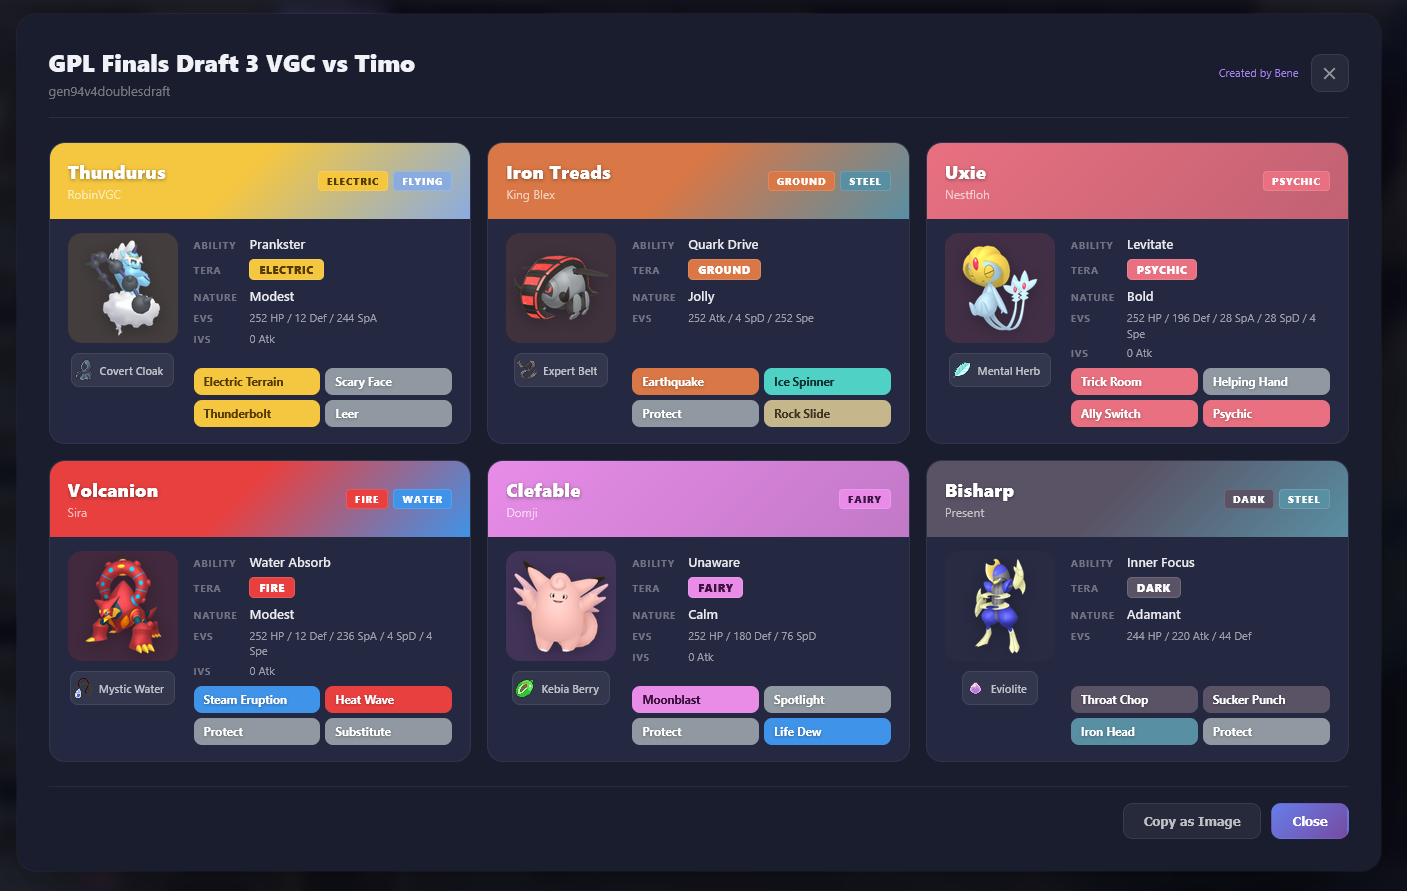
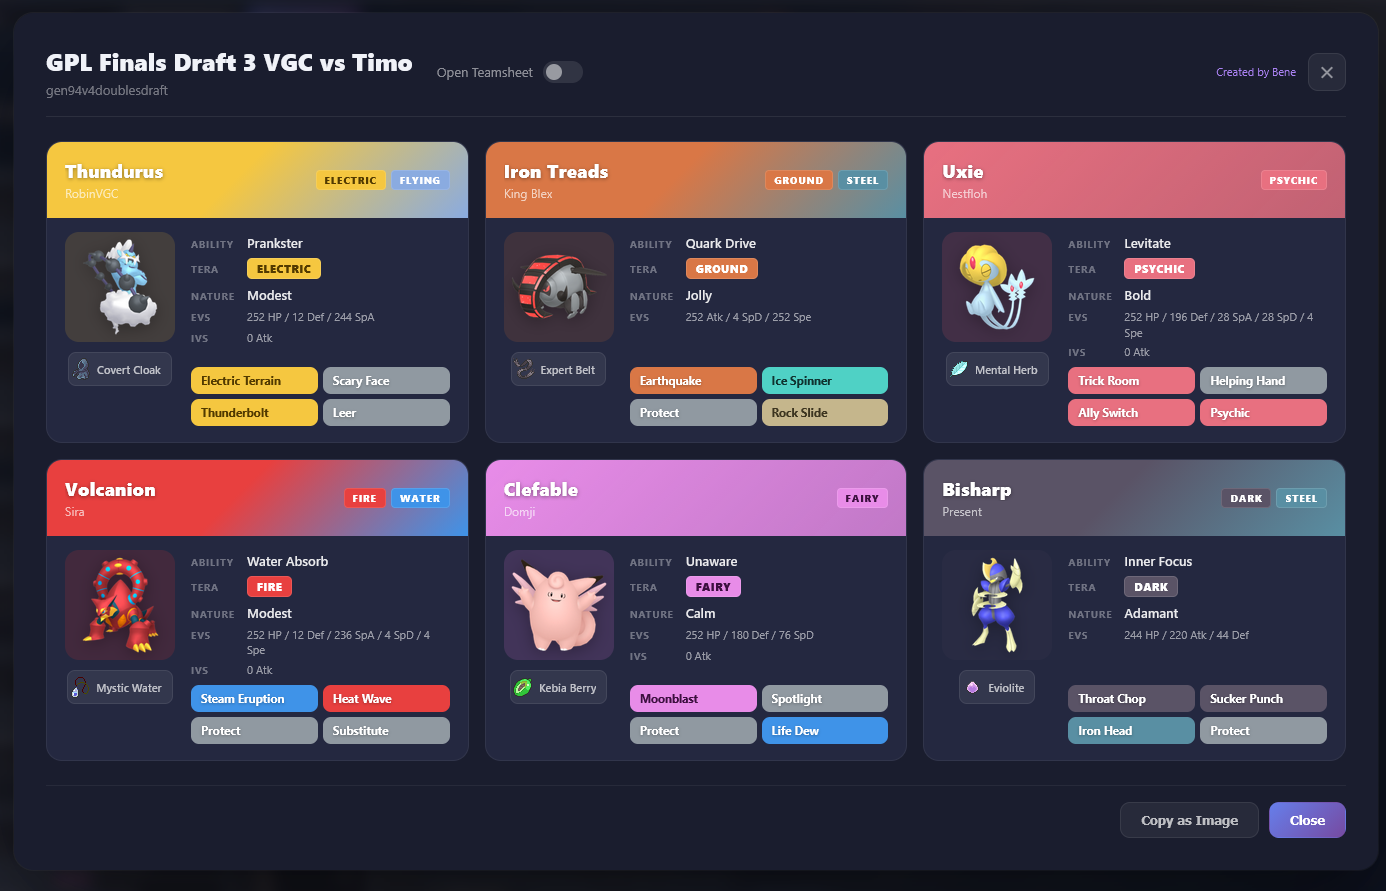
Add Open Teamsheet Option

diff --git a/teambuilder-beautify.user.js b/teambuilder-beautify.user.js
@@ -1,7 +1,7 @@
 // ==UserScript==
 // @name         Pokémon Showdown Teambuilder Beautify
 // @namespace    https://github.com/teambuilder-beautify
-// @version      1.0.1
+// @version      1.0.2
 // @description  Adds a beautiful teamsheet overlay to the Pokémon Showdown teambuilder
 // @author       Teambuilder Beautify
 // @match        https://play.pokemonshowdown.com/*
@@ -305,6 +305,47 @@
       transition: all 0.2s;
     }
     .tb-beautify-close:hover { background: rgba(255,255,255,0.12); color: #fff; }
+
+    /* Open Teamsheet Toggle */
+    .tb-open-teamsheet-toggle {
+      display: flex; align-items: center; gap: 10px;
+      margin-left: 24px; margin-right: auto;
+      user-select: none;
+    }
+    .tb-open-teamsheet-toggle label {
+      color: rgba(255,255,255,0.5); font-size: 13px; font-weight: 500;
+      cursor: pointer; white-space: nowrap;
+    }
+    .tb-toggle-switch {
+      position: relative; width: 40px; height: 22px; flex-shrink: 0;
+    }
+    .tb-toggle-switch input { opacity: 0; width: 0; height: 0; position: absolute; pointer-events: none; }
+    .tb-toggle-slider {
+      position: absolute; top: 0; left: 0; right: 0; bottom: 0;
+      background: rgba(255,255,255,0.1); border-radius: 11px;
+      cursor: pointer; transition: background 0.25s;
+      z-index: 1;
+    }
+    .tb-toggle-slider::before {
+      content: ''; position: absolute; left: 3px; top: 3px;
+      width: 16px; height: 16px; border-radius: 50%;
+      background: rgba(255,255,255,0.5); transition: transform 0.25s, background 0.25s;
+    }
+    .tb-toggle-switch input:checked + .tb-toggle-slider {
+      background: rgba(124,77,255,0.5);
+    }
+    .tb-toggle-switch input:checked + .tb-toggle-slider::before {
+      transform: translateX(18px); background: #7c4dff;
+    }
+
+    /* Open Teamsheet mode: hide nature/evs/ivs */
+    .tb-beautify-modal.tb-open-teamsheet .tb-card-nature,
+    .tb-beautify-modal.tb-open-teamsheet .tb-card-evs-row,
+    .tb-beautify-modal.tb-open-teamsheet .tb-card-ivs-row,
+    .tb-beautify-modal.tb-open-teamsheet .tb-detail-nature,
+    .tb-beautify-modal.tb-open-teamsheet .tb-detail-evs-row,
+    .tb-beautify-modal.tb-open-teamsheet .tb-detail-ivs-row { display: none !important; }
+    .tb-beautify-modal.tb-open-teamsheet .tb-detail-stats { display: none !important; }
 
     /* Grid */
     .tb-beautify-grid {
@@ -666,10 +707,10 @@
               '<span class="tb-card-label">Ability</span>' +
               '<span class="tb-card-value">' + escapeHTML(abilityName) + '</span>' +
               (teraType ? '<span class="tb-card-label">Tera</span><span class="tb-card-value">' + teraBadgeHTML + '</span>' : '') +
-              '<span class="tb-card-label">Nature</span>' +
-              '<span class="tb-card-value">' + escapeHTML(natureName) + '</span>' +
-              (evStr ? '<span class="tb-card-label">EVs</span><span class="tb-card-evs">' + escapeHTML(evStr) + '</span>' : '') +
-              (ivStr ? '<span class="tb-card-label">IVs</span><span class="tb-card-evs">' + escapeHTML(ivStr) + '</span>' : '') +
+              '<span class="tb-card-label tb-card-nature">Nature</span>' +
+              '<span class="tb-card-value tb-card-nature">' + escapeHTML(natureName) + '</span>' +
+              (evStr ? '<span class="tb-card-label tb-card-evs-row">EVs</span><span class="tb-card-evs tb-card-evs-row">' + escapeHTML(evStr) + '</span>' : '') +
+              (ivStr ? '<span class="tb-card-label tb-card-ivs-row">IVs</span><span class="tb-card-evs tb-card-ivs-row">' + escapeHTML(ivStr) + '</span>' : '') +
             '</div>' +
             '<div class="tb-card-moves">' + movesHTML + '</div>' +
           '</div>' +
@@ -857,10 +898,10 @@
                 '<span class="tb-detail-label">Ability</span>' +
                 '<span class="tb-detail-value">' + escapeHTML(abilityName) + '</span>' +
                 (teraType ? '<span class="tb-detail-label">Tera</span><span class="tb-detail-value">' + teraHTML + '</span>' : '') +
-                '<span class="tb-detail-label">Nature</span>' +
-                '<span class="tb-detail-value">' + escapeHTML(natureName) + '</span>' +
-                (evStr ? '<span class="tb-detail-label">EVs</span><span class="tb-detail-value-sm">' + escapeHTML(evStr) + '</span>' : '') +
-                (ivStr ? '<span class="tb-detail-label">IVs</span><span class="tb-detail-value-sm">' + escapeHTML(ivStr) + '</span>' : '') +
+                '<span class="tb-detail-label tb-detail-nature">Nature</span>' +
+                '<span class="tb-detail-value tb-detail-nature">' + escapeHTML(natureName) + '</span>' +
+                (evStr ? '<span class="tb-detail-label tb-detail-evs-row">EVs</span><span class="tb-detail-value-sm tb-detail-evs-row">' + escapeHTML(evStr) + '</span>' : '') +
+                (ivStr ? '<span class="tb-detail-label tb-detail-ivs-row">IVs</span><span class="tb-detail-value-sm tb-detail-ivs-row">' + escapeHTML(ivStr) + '</span>' : '') +
               '</div>' +
             '</div>' +
           '</div>' +
@@ -966,6 +1007,13 @@
             '<h2>' + escapeHTML(teamName) + '</h2>' +
             (format ? '<div class="tb-beautify-header-format">' + escapeHTML(format) + '</div>' : '') +
           '</div>' +
+          '<div class="tb-open-teamsheet-toggle">' +
+            '<label for="tb-open-teamsheet-cb">Open Teamsheet</label>' +
+            '<div class="tb-toggle-switch">' +
+              '<input type="checkbox" id="tb-open-teamsheet-cb">' +
+              '<span class="tb-toggle-slider"></span>' +
+            '</div>' +
+          '</div>' +
           '<a class="tb-beautify-credit" href="https://fulllifegames.com" target="_blank" rel="noopener">Created by Bene</a>' +
           '<button class="tb-beautify-close" title="Close">&times;</button>' +
         '</div>' +
@@ -987,6 +1035,23 @@
 
     var closeBtn = overlay.querySelector('[data-action="close"]');
     if (closeBtn) closeBtn.addEventListener('click', closeTeamsheet);
+
+    // Open Teamsheet toggle
+    var openTsCb = overlay.querySelector('#tb-open-teamsheet-cb');
+    var openTsSlider = overlay.querySelector('.tb-toggle-slider');
+    if (openTsCb) {
+      var applyToggle = function() {
+        var modal = overlay.querySelector('.tb-beautify-modal');
+        if (openTsCb.checked) modal.classList.add('tb-open-teamsheet');
+        else modal.classList.remove('tb-open-teamsheet');
+      };
+      openTsCb.addEventListener('change', applyToggle);
+      if (openTsSlider) openTsSlider.addEventListener('click', function(e) {
+        e.preventDefault();
+        openTsCb.checked = !openTsCb.checked;
+        applyToggle();
+      });
+    }
 
     // Card click -> detail view
     overlay.querySelectorAll('.tb-card').forEach(function(card) {
@@ -1034,8 +1099,15 @@
 
   async function exportTeamsheetAsImage(modalEl) {
     try {
+      // Hide toggle and close button during export
+      var toggle = modalEl.querySelector('.tb-open-teamsheet-toggle');
+      var closeEl = modalEl.querySelector('.tb-beautify-close');
+      if (toggle) toggle.style.display = 'none';
+      if (closeEl) closeEl.style.display = 'none';
       var h2c = await loadHtml2Canvas();
       var canvas = await h2c(modalEl, { backgroundColor: '#1a1d2e', scale: 2, useCORS: true });
+      if (toggle) toggle.style.display = '';
+      if (closeEl) closeEl.style.display = '';
       canvas.toBlob(function(blob) {
         if (blob && navigator.clipboard && navigator.clipboard.write) {
           navigator.clipboard.write([new ClipboardItem({ 'image/png': blob })]).then(function() {

diff --git a/README.md b/README.md
@@ -15,6 +15,7 @@ A userscript / Chrome extension that adds a beautiful teamsheet overlay to the [
 - Type badges, item icons, and ability/nature/EV info
 - Computed stat bars (base + IV + EV + nature) with nature highlighting (red = boosted, blue = reduced)
 - Detail view: click any Pokemon card for a full breakdown with large sprite, stat bars, and move details
+- **Open Teamsheet** toggle: switch to a simplified view that hides natures, EVs, IVs, and stat bars — perfect for sharing without revealing competitive details
 - Copy as image / close controls
 - Works with all team formats and generations
 
